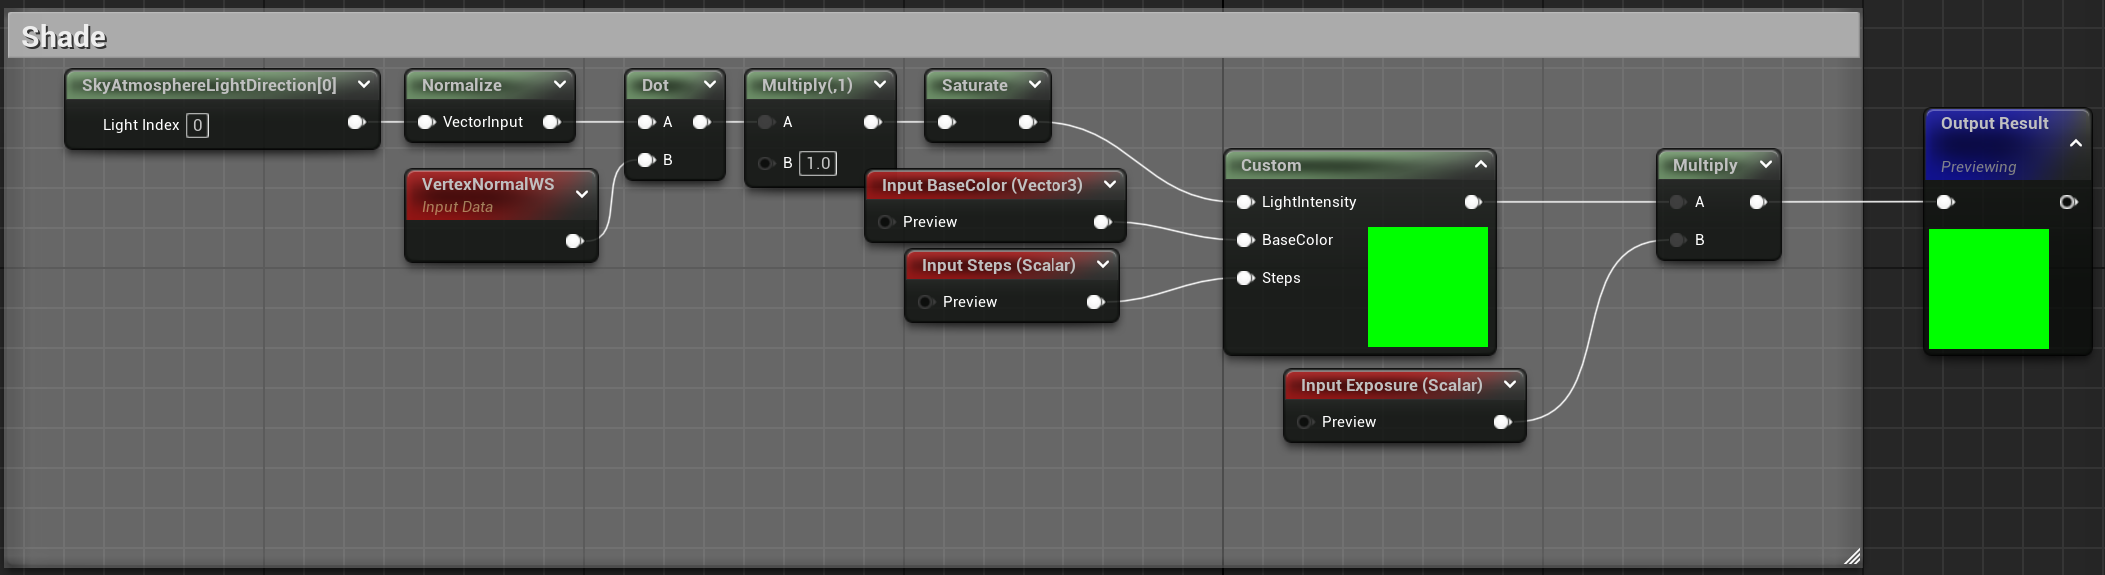
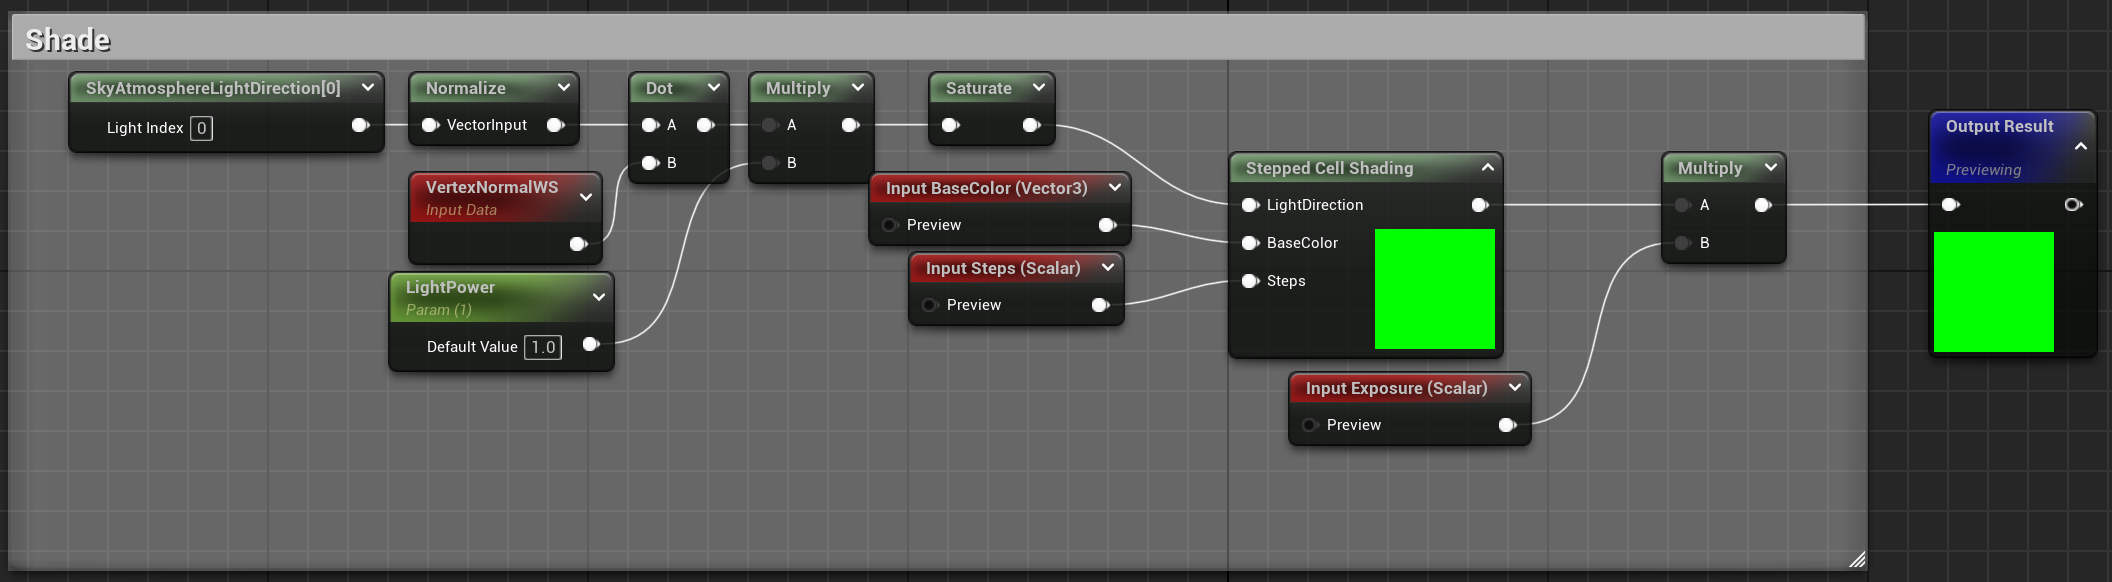
Update post

diff --git a/_posts/2024-02-16-UnrealStylizedShaders.md b/_posts/2024-02-16-UnrealStylizedShaders.md
@@ -6,8 +6,7 @@ image: assets/images/ueshaderwork/FireFly.gif
 
 Creating stylized shaders with a specific artistic direction in a student game project was the reason of the research and work exposed in this blogpost.
 
-## Contextualisation
-
+## Contextualization
 During the last year of bachelor's degree in Game Programming at the SAE-Institute, the students of the Games Programming section had to create a game in collaboration with the Game Art and Audio Engineering sections. The purpose of the module was to simulate what was, for some, a first work experience in a professional-like environment.
 
 For this project I had the opportunity to work as a Graphic Programmer on two game projects made in the Unreal Engine 5.3.
@@ -19,7 +18,7 @@ Project Girl & Kitty  | Project VR
 For both project we had a limited production time, roughly 8 months, with a team of 27 people.
 
 The tasks I worked on were the following:
-- Creation of [shaders](https://en.wikipedia.org/wiki/Shader) and functions to replicate a watercolour style
+- Creation of [shaders](https://en.wikipedia.org/wiki/Shader) and functions to replicate a watercolor style
 - Graphic tools for the artists
 - Asset integration, colorization, test and review
 - Creation of Landscape shaders, [Virtual Texturing](https://docs.unrealengine.com/4.26/en-US/RenderingAndGraphics/VirtualTexturing/)
@@ -35,7 +34,6 @@ The first elements to acknowledge is the art direction. One of the references gi
 The only problem was that compared to Dordogne, a game made with hand-painted textures by "[Un je ne sais quoi](https://unjenesaisquoi.fr/)" a professional french studio, we didn't have as much time and would risk having incoherent texturing from the artists. For that reason a major part of the texturing was done with shaders.
 
 ## Shaders
-
 In this blogpost, I am going to detail the steps of the major task I have been doing during these projects as a graphic programmer.
 
 In this section the following shaders will be exposed and detailed: 
@@ -49,13 +47,29 @@ Multiple iterations were done before being validated by the "Art Director", the 
 ![]({{ site.baseurl }}/assets/images/ueshaderwork/GK_Iterations.PNG "Shader Iterations"){: width="100%"}
 
 ### Stepped cell shading
-
+#### Cell shading function
 Since a major part of stylized games use cell shading, that was the first shader I tried to produce.
 After multiple tests using sequenced unreal `if` nodes, I finally created a custom [HLSL](https://en.wikipedia.org/wiki/High-Level_Shader_Language) shader using the [Custom unreal node](https://docs.unrealengine.com/5.2/en-US/custom-material-expressions-in-unreal-engine/).
 
 ![]({{ site.baseurl }}/assets/images/ueshaderwork/MF_CellShade.PNG "Cell Shader Material Function"){: width="100%"}
 
-In this material function (MF_) I get the SkyAtmosphereLightDirection and do a dot product with the `VertexNormalWS` (see [Coordinates Expressions](https://docs.unrealengine.com/4.27/en-US/RenderingAndGraphics/Materials/ExpressionReference/Coordinates/)) to set a multiplication value of the BaseColor according to the position of the SkyLight. The internal code of the shader is the following:
+In this material function (MF_) I get the SkyAtmosphereLightDirection and do a dot product with the `VertexNormalWS` (see [Coordinates Expressions](https://docs.unrealengine.com/4.27/en-US/RenderingAndGraphics/Materials/ExpressionReference/Coordinates/)) to set a multiplication value of the BaseColor according to the position of the SkyLight. 
+
+The node requires to explicitly add the `LightDirection`, `Basecolor` and `Steps` variables to the custom node.
+
+![]({{ site.baseurl }}/assets/images/ueshaderwork/MF_CellShade_Var.PNG "Cell Shading Variables"){: width="50%"}
+
+To use this material function it is necessary to branch the function as shown below:
+
+![]({{ site.baseurl }}/assets/images/ueshaderwork/MF_CellShade_Use.PNG "How to use the Material Function"){: width="100%"}
+
+The variables to input are:
+- `BaseColor`: The object's color/texture
+- `Exposure`: The value by which we want to multiply the final colors.
+- `Steps`: The amount of desired separations 
+
+#### HLSL code
+The custom's node internal code was the following:
 
 ```c++
 float3 col;
@@ -65,7 +79,7 @@ float Tstep = 1.0/steps;
 
 for(int i = 0; i < steps; i++)
 {
-    if(LightIntensity < T)
+    if(LightDirection < T)
     {
         col = BaseColor * T;
         return col;
@@ -75,22 +89,20 @@ for(int i = 0; i < steps; i++)
 
 return BaseColor;
 ```
+In this code, the `float3` "col" is the color that is returned at every iteration of the for loop.  
+The `T` variable is the current value of a step.  
+`Tstep` is the value of one step, obtained by dividing 1 by the amount of steps that are input.
+`LightDirection` is the value of the vector that is evaluated to define the limitation of colors.
 
-To use this material function it is necessary to branch the function as shown below:
+The `for` loop iterated until the amount of `steps` is met. Its content evaluates the `LightDirection` according to the current step `T`. If it is lower, the returned color is equal to the `BaseColor` multiplied by the step's value. The current step's value is then incremented by `Tstep`. When the `for` loop has ended the `BaseColor` is returned for the "non-shaded" parts.
 
-![]({{ site.baseurl }}/assets/images/ueshaderwork/MF_CellShade_Use.PNG "How to use the Material Function"){: width="100%"}
-
-The variables to input are:
-- `BaseColor`: The object's color
-- `Exposure`: The value by which we want to multiply the final colors.
-- `Steps`: The amount of desired separations 
-
-The result is the following:
+#### Result
+The result of this node used with plane white (1.0, 1.0, 1.0, 1.0) and 3 steps is the following:
 
 ![]({{ site.baseurl }}/assets/images/ueshaderwork/MF_CellShade_Result.PNG "Material Function result"){: width="100%"}
 
 ### Watercolor shader
-
+#### Watercolor function
 This shader had the principle task of replicating a watercolor effect on the assets in local/world space.
 After multiple trials the final version of my shader was transformed in a material function to simplify it's modification.
 
@@ -103,10 +115,13 @@ This function gave the user the ability to change the watercolor effect of each 
 The different parameters are the following:
 - `Metalness & Roughness`: Value between 0 and 1 to define these values.
 - `Enable_Texture`: Enables the possibility to input a texture as `BaseColor`.
-- `Enable_Second_Colour`: Enables the possibility to have a second color channel.
+- `Enable_Second_color`: Enables the possibility to have a second color channel.
 - `Second_Texture_Multiplier`: Changes the saturation value of the second texture
 
 The `Second_` values are used with a Noise material function to give the diffusion effect to objects.
+
+#### Noise function
+The use of a noise function was the key element to have a "spreading" effect of both colors declared before
 ![]({{ site.baseurl }}/assets/images/ueshaderwork/MF_Noise.PNG "Noise Material Function"){: width="100%"}
 
 The Noise parameters are the following: 
@@ -115,43 +130,51 @@ The Noise parameters are the following:
 - `Noise_Texture`: The Noise used to "spread" colors.
 - `Invert_Noise`: Inverts the black and white values of the Noise texture.
 
-To use it in a Material, the `MF_Noise` is given as an alpha to a `Lerp` with the `BaseColors`
-![]({{ site.baseurl }}/assets/images/ueshaderwork/Watercolor_Use.PNG "Watercolour Use"){: width="100%"}
+To use it in a Material, the `MF_Noise` is given as an alpha to a `Lerp` with the `BaseColors`.
+![]({{ site.baseurl }}/assets/images/ueshaderwork/Watercolor_Use.PNG "Watercolor Use"){: width="100%"}
 
-
-The final result gives some sort of a color "spread".
+#### Result
+The final result gives some sort of a color "spread" that is one of the key elements in the watercolor style.
 ![]({{ site.baseurl }}/assets/images/ueshaderwork/GK_Render.PNG "Boat with watercolor shader"){: width="100%"}
 
-### Rim function
+### Rim Shader
 Since Dordogne has a specific outline on the characters that depends of the light source, I decided to create the same function in Unreal.
 
 ![]({{ site.baseurl }}/assets/images/ueshaderwork/dordogne.jpg "dordogne outline"){: width="100%"}
 
+#### Rim Function
 It was accomplished by using a `Fresnel Node` and subtracting it with the inverse of the dot between the light source and the `VertexNormalWS` (vertex normal world space) node.
 
 ![]({{ site.baseurl }}/assets/images/ueshaderwork/MF_Rim.PNG "Rim material function"){: width="100%"}
 
+To use it, connected it to either the `BaseColor` or the `Emissive Color`.
 
-To use it I connected it to either the `Base Color` or the `Emissive Color` The final result was the following:
+BaseColor | Emissive Color
+:-----:|:-----:
+![]({{ site.baseurl }}/assets/images/ueshaderwork/MF_Rim_Use.PNG "Rim function use BC"){: width="100%"} | ![]({{ site.baseurl }}/assets/images/ueshaderwork/MF_Rim_Use1.PNG "Rim function use EC"){: width="100%"}
+
+#### Result
+The final result connected to the `Emissive Color` of a plane white material was the following:
 
 ![]({{ site.baseurl }}/assets/images/ueshaderwork/Rim_Shader.gif "Dynamic rim shader"){: width="100%"}
 
 
 ### Landscape and virtual texturing
+After discussion with a Game Artist friend participating in the project she pointed out the necessity of having a landscape material, that would blend vegetation and the ground seemingly.
 
-After discussion with a Game Artist friend participating in the project the necessity of having a landscape material, that would blend vegetation and the ground seemingly, appeared.
+#### Landscape material
+![]({{ site.baseurl }}/assets/images/ueshaderwork/VT_Path.PNG "Virtual Texturing Path base"){: width="100%"}
+![]({{ site.baseurl }}/assets/images/ueshaderwork/VT_Grass.PNG "Virtual Texturing Grass base"){: width="100%"}
+![]({{ site.baseurl }}/assets/images/ueshaderwork/VT_MakeMAT.PNG "Virtual Texturing make material"){: width="100%"}
+![]({{ site.baseurl }}/assets/images/ueshaderwork/VT_RTVT.PNG "Virtual Texturing Run-time Virt.Texturing"){: width="100%"}
 
 ![]({{ site.baseurl }}/assets/images/ueshaderwork/VT_Blend.gif "Virtual Texturing blend"){: width="100%"}
 
-
-
 ### Water shader
-
 ## Post Processing
-
 For this part of the blog post, we are not going to go in depth trough the work process since it is not the intended focus point. Instead a simple overview of the final shader's state will be exposed.
 
-The idea of using a post processing shader came first of all from the necessity of having a screen space effect that would give a diffusion of colour between objects in a scene. To accomplish that effect a simple shader using [HLSL](https://fr.wikipedia.org/wiki/High-Level_Shading_Language) was created to obtain a [Kuwahara](https://en.wikipedia.org/wiki/Kuwahara_filter) filter effect in screen space.
+The idea of using a post processing shader came first of all from the necessity of having a screen space effect that would give a diffusion of color between objects in a scene. To accomplish that effect a simple shader using [HLSL](https://fr.wikipedia.org/wiki/High-Level_Shading_Language) was created to obtain a [Kuwahara](https://en.wikipedia.org/wiki/Kuwahara_filter) filter effect in screen space.
 
 The Unreal Engine material node looked like this:
 
@@ -223,12 +246,11 @@ Here you can see the result of the post processing shader being used:
 ![]({{ site.baseurl }}/assets/images/ueshaderwork/GK_KuwaharaFilter.gif "Kuwahara filter effect"){: width="100%"}
 
 ## Final result
-
 After multiple trials and exchanges with colleges and teachers, the results were the following:
 
 Shader Only  | Shader + PostProcess
 :-----:|:-----:
-![]({{ site.baseurl }}/assets/images/ueshaderwork/Final_without_PP.PNG "Watercolour shader without post-process"){: width="100%"} | ![]({{ site.baseurl }}/assets/images/ueshaderwork/Final_with_PP.PNG "Watercolour shader with post-process"){: width="90%"} 
+![]({{ site.baseurl }}/assets/images/ueshaderwork/Final_without_PP.PNG "Watercolor shader without post-process"){: width="100%"} | ![]({{ site.baseurl }}/assets/images/ueshaderwork/Final_with_PP.PNG "Watercolor shader with post-process"){: width="90%"} 
 
 Final result of shaders
 {: style="text-align: center"}

diff --git a/_posts/2024-02-09-UnrealDynamicShaders.md b/_posts/2024-02-09-UnrealDynamicShaders.md
@@ -387,6 +387,6 @@ In the end, even though it took a certain amount of time and iteration, the effe
 
 ## Conclusion
 
-To conclude this blogpost I would say that, even though this work wasn't really relative to Graphic programming, it has taught me a lot regarding Unreal Engine 5, its interface, the materials and the hierarchy behind them, the tools and possibilities available.
+To conclude this blogpost I would say that, even though this work wasn't really relative to Graphic programming, it has taught me a lot regarding Unreal Engine 5, its interface, the materials and the hierarchy behind them, the tools and possibilities available.  
 
-Since I was more used to Unity, having to use the system of dynamic materials was really complicated to understand and work with at the beginning but, in the end, I think that what I have learned has a lot of value and has trained me to get used to a different interface and way of doing things. Overall it was really an interesting project to work on and feel proud of what I was able to accomplish giving the fact that I had no knowledge of Unreal's material system before.
+Since I was more used to Unity, having to use the system of dynamic materials was really complicated to understand and work with at the beginning but, in the end, I think that what I have learned was really valuable and has trained me to get used to a different interface and way of doing things. Overall it was really an interesting project to work on and I feel proud of what I was able to accomplish giving the fact that I had no knowledge of Unreal's material system before.
